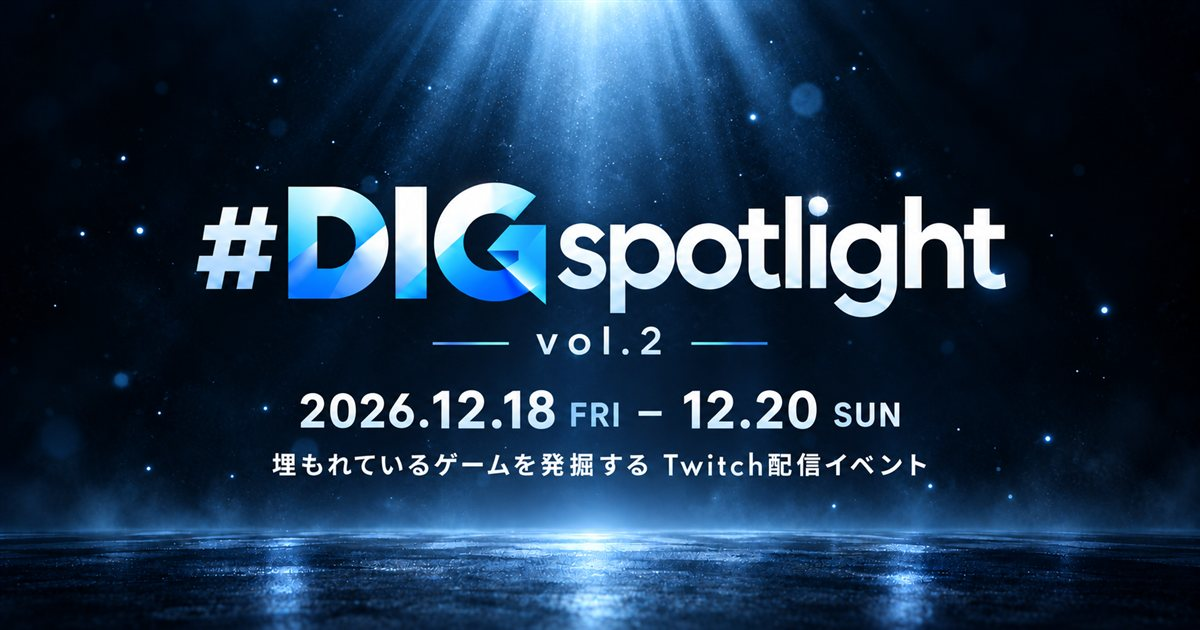
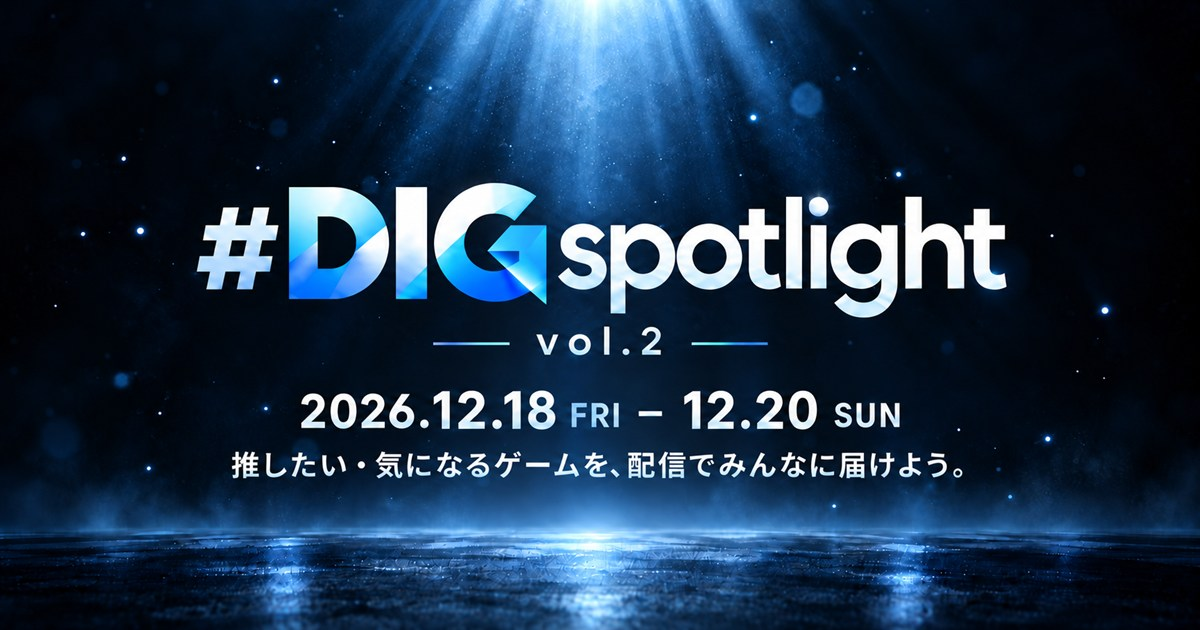
vol2: OGP画像とキャッチコピーを「推したい・気になるゲーム」軸に刷新
- ogp.jpg を新デザイン（推したい・気になるゲームを、配信でみんなに届けよう。）に差し替え
- ヒーロー下・概要・参加ルールの文言を更新（日英）、スマホで句の切れ目改行
- meta/og/twitter description・og:image:alt・共有ボタン文言を新コピーに統一
- ルール注記の強調を <strong> ＋濃いグレーに

Claude-Session: c8358565-86c4-4af2-a181-9389b95d70da

diff --git a/vol2/index.html b/vol2/index.html
@@ -6,22 +6,22 @@
 <title>#DIGspotlight vol.2</title>
 <link rel="icon" href="favicon.png">
 <link rel="apple-touch-icon" href="favicon.png">
-<meta name="description" content="埋もれているゲームを発掘するTwitch配信イベント #DIGspotlight vol.2 / A streaming event to discover lesser-known games on Twitch — #DIGspotlight vol.2">
+<meta name="description" content="推したい・気になるゲームを、配信でみんなに届けよう。Twitch配信イベント #DIGspotlight vol.2 / Stream the games you love — or are curious about — and share them with everyone. A Twitch streaming event, #DIGspotlight vol.2">
 
 <meta property="og:type" content="website">
 <meta property="og:site_name" content="#DIGspotlight">
 <meta property="og:url" content="https://alnico-dig.github.io/event/vol2/">
 <meta property="og:title" content="#DIGspotlight vol.2">
-<meta property="og:description" content="埋もれているゲームを発掘するTwitch配信イベント #DIGspotlight vol.2 / A streaming event to discover lesser-known games on Twitch — #DIGspotlight vol.2">
+<meta property="og:description" content="推したい・気になるゲームを、配信でみんなに届けよう。Twitch配信イベント #DIGspotlight vol.2 / Stream the games you love — or are curious about — and share them with everyone. A Twitch streaming event, #DIGspotlight vol.2">
 <meta property="og:image" content="https://alnico-dig.github.io/event/vol2/ogp.jpg">
 <meta property="og:image:width" content="1200">
 <meta property="og:image:height" content="630">
-<meta property="og:image:alt" content="#DIGspotlight vol.2 — 2026.12.18–20(JST) Twitch配信イベント">
+<meta property="og:image:alt" content="#DIGspotlight vol.2 — 2026.12.18–20 推したい・気になるゲームを、配信でみんなに届けよう。">
 
 <meta name="twitter:card" content="summary_large_image">
 <meta name="twitter:site" content="@alnico_ow">
 <meta name="twitter:title" content="#DIGspotlight vol.2">
-<meta name="twitter:description" content="埋もれているゲームを発掘するTwitch配信イベント #DIGspotlight vol.2 / A streaming event to discover lesser-known games on Twitch — #DIGspotlight vol.2">
+<meta name="twitter:description" content="推したい・気になるゲームを、配信でみんなに届けよう。Twitch配信イベント #DIGspotlight vol.2 / Stream the games you love — or are curious about — and share them with everyone. A Twitch streaming event, #DIGspotlight vol.2">
 <meta name="twitter:image" content="https://alnico-dig.github.io/event/vol2/ogp.jpg">
 
 <!-- 言語のちらつき防止：スタイル適用前に保存済みの言語を反映 -->
@@ -75,8 +75,8 @@
 <div class="hero-info">
   <div class="hero-date">2026.12.18 <span class="hero-time">0:00</span><span class="hero-date-sep">–</span> 12.20 <span class="hero-time">23:00</span><span class="hero-jst">(JST)</span></div>
   <div class="hero-tagline">
-    <span class="ja">埋もれているゲームを発掘するTwitch配信イベント</span>
-    <span class="en">Discover lesser-known games on Twitch</span>
+    <span class="ja"><span class="hero-tagline-part">推したい・気になるゲームを、</span><span class="hero-tagline-part">みんなに届けるTwitch配信イベント</span></span>
+    <span class="en"><span class="hero-tagline-part">Stream the games you love — or are curious about —</span> <span class="hero-tagline-part">and share them with everyone.</span></span>
   </div>
   <div class="hero-organizer">
     <span class="ja">主催:アルニコ</span><span class="en">Organizer:alnico</span><span class="hero-organizer-sep">Twitch:</span><a href="https://www.twitch.tv/alnico_gamenews" target="_blank" rel="noopener">alnico_GameNews</a><span class="hero-organizer-sep">X:</span><a href="https://x.com/alnico_ow" target="_blank" rel="noopener">@alnico_ow</a>
@@ -96,8 +96,8 @@
       <span class="ja">イベント概要</span><span class="en">Event Overview</span>
     </h3>
     <p class="summary">
-      <span class="ja">「#DIGspotlight」は開催期間中に埋もれてしまっているSteamのゲームを<br>自身のチャンネルで配信するだけのイベントです。<br>参加される方は、面白そうなゲームを初見プレイでもRTAでも布教活動でも。<br>視聴される方は、知らなかったゲームやデベロッパー、配信者さんとの出会いの機会に。<br>ゆる～いイベントですので難しく考えずお楽しみいただければ。</span>
-      <span class="en">#DIGspotlight is an event where you stream an overlooked Steam game<br>on your own channel during the event period — that's all it takes.<br>Streamers: try something new, speedrun it, or just hype it up.<br>Viewers: discover games, developers, and streamers you didn't know.<br>It's a laid-back event — no need to overthink it, just enjoy!</span>
+      <span class="ja">「#DIGspotlight」は、推したい・気になるSteamゲームを<br>それぞれのチャンネルからみんなに届ける配信イベントです。<br>初見プレイ、RTA、好きなゲームの布教など、配信スタイルは自由。<br>視聴する方には、新しいゲームやデベロッパー、配信者との出会いの機会に。<br>いつもの配信に、少しだけ特別なスポットライトを。</span>
+      <span class="en">#DIGspotlight is a streaming event where you share Steam games you love — or are curious about —<br>with everyone, right from your own channel.<br>Blind playthroughs, speedruns, or spreading the love for a favorite — stream it your way.<br>And for viewers, it's a chance to discover new games, developers, and streamers.<br>Give your usual stream a little extra spotlight.</span>
     </p>
 
     <div class="event-info">
@@ -117,11 +117,10 @@
       期間中にご自身のTwitchチャンネルでゲームを配信してください。
     </li>
     <li>
-      配信するゲームは自国の言語でSteamのレビュー件数が1000件以下のものにしてください。<br>
+      推したい・気になるゲームの中から、Steamレビュー1000件以下を目安に選んでください。<br>
       <small>
-        ※よほど有名なタイトルでなければ大抵は配信できます /
-        <a href="https://kenbogames.com/steamdatabase/" target="_blank">こちらから探すこともできます</a>(J-STEAM DB by kenbo様)<br>
-        ※どのゲームを遊ぶか迷ったら、<a href="#selection">こちら</a>からもどうぞ
+        ※<strong>配信で使用している言語のレビュー数</strong>でOKです。1000件を超える場合もお気軽にご相談ください<br>
+        🔎 ゲームを探す：<a href="https://kenbogames.com/steamdatabase/" target="_blank">J-STEAM DB</a>(by kenbo様) / <a href="#selection">DIG Selection</a>
       </small>
     </li>
     <li>
@@ -152,11 +151,10 @@
       Stream a game on your Twitch channel during the event period.
     </li>
     <li>
-      The game must have 1,000 or fewer Steam reviews in your own language.<br>
+      Pick a game you love or are curious about — as a guideline, one with 1,000 or fewer Steam reviews.<br>
       <small>
-        *Unless it's a really famous title, it'll usually qualify /
-        <a href="https://kenbogames.com/steamdatabase/" target="_blank">You can also search here</a> (J-STEAM DB by kenbo)<br>
-        *Not sure what to play? <a href="#selection">Here are some picks</a>
+        *Only <strong>reviews in your streaming language</strong> count. Over 1,000? Feel free to ask us.<br>
+        🔎 Find games: <a href="https://kenbogames.com/steamdatabase/" target="_blank">J-STEAM DB</a> (by kenbo) / <a href="#selection">DIG Selection</a>
       </small>
     </li>
     <li>
@@ -766,8 +764,8 @@ loadList();
   link.addEventListener('click', function () {
     const en = document.documentElement.lang === 'en';
     const text = en
-      ? '#DIGspotlight vol.2 — a Twitch streaming event to discover lesser-known games. Dec 18–20.'
-      : '埋もれているゲームを発掘するTwitch配信イベント #DIGspotlight vol.2、12/18~20 開催！';
+      ? 'Stream the games you love — or are curious about — and share them with everyone. #DIGspotlight vol.2, a Twitch streaming event, Dec 18–20.'
+      : '推したい・気になるゲームを、配信でみんなに届けよう。Twitch配信イベント #DIGspotlight vol.2、12/18~20 開催！';
     this.href = 'https://twitter.com/intent/tweet?text=' + encodeURIComponent(text) +
       '&url=' + encodeURIComponent(EVENT_URL);
   });

diff --git a/vol2/register.html b/vol2/register.html
@@ -1054,7 +1054,7 @@
     var g = String(gameName || '').trim();
     if (g.length > 80) g = g.slice(0, 79) + '…';
     var text = en
-      ? 'Joining #DIGspotlight vol.2 to discover lesser-known games on Twitch\n🎮 ' + g
+      ? 'Streaming in the Twitch event #DIGspotlight vol.2!\n🎮 ' + g
       : 'Twitch配信イベント #DIGspotlight vol.2 で配信します！\n🎮 ' + g;
     var u = /^https?:\/\//.test(steamUrl || '') ? steamUrl : 'https://store.steampowered.com/';
     return 'https://twitter.com/intent/tweet?text=' + encodeURIComponent(text) +

diff --git a/vol2/edit.html b/vol2/edit.html
@@ -566,7 +566,7 @@
     var g = String(gameName || '').trim();
     if (g.length > 80) g = g.slice(0, 79) + '…';
     var text = en
-      ? 'Joining #DIGspotlight vol.2 to discover lesser-known games on Twitch\n🎮 ' + g
+      ? 'Streaming in the Twitch event #DIGspotlight vol.2!\n🎮 ' + g
       : 'Twitch配信イベント #DIGspotlight vol.2 で配信します！\n🎮 ' + g;
     var u = /^https?:\/\//.test(steamUrl || '') ? steamUrl : 'https://store.steampowered.com/';
     return 'https://twitter.com/intent/tweet?text=' + encodeURIComponent(text) +

diff --git a/vol2/stylesheet.css b/vol2/stylesheet.css
@@ -391,6 +391,8 @@ a:hover {
   font-weight: 600;
   opacity: 0.9;
 }
+/* 狭い画面では句の切れ目で改行させる */
+.hero-tagline-part { display: inline-block; }
 
 .hero-organizer {
   margin-top: 12px;
@@ -508,6 +510,10 @@ a:hover {
   margin-top: 1px;
   line-height: 1.5;
   font-size: 0.9em;
+}
+/* 注記内の強調（リンクの青と紛れないよう濃いグレー） */
+.rules li small strong {
+  color: #555;
 }
 
 .notice-group + .notice-group {
